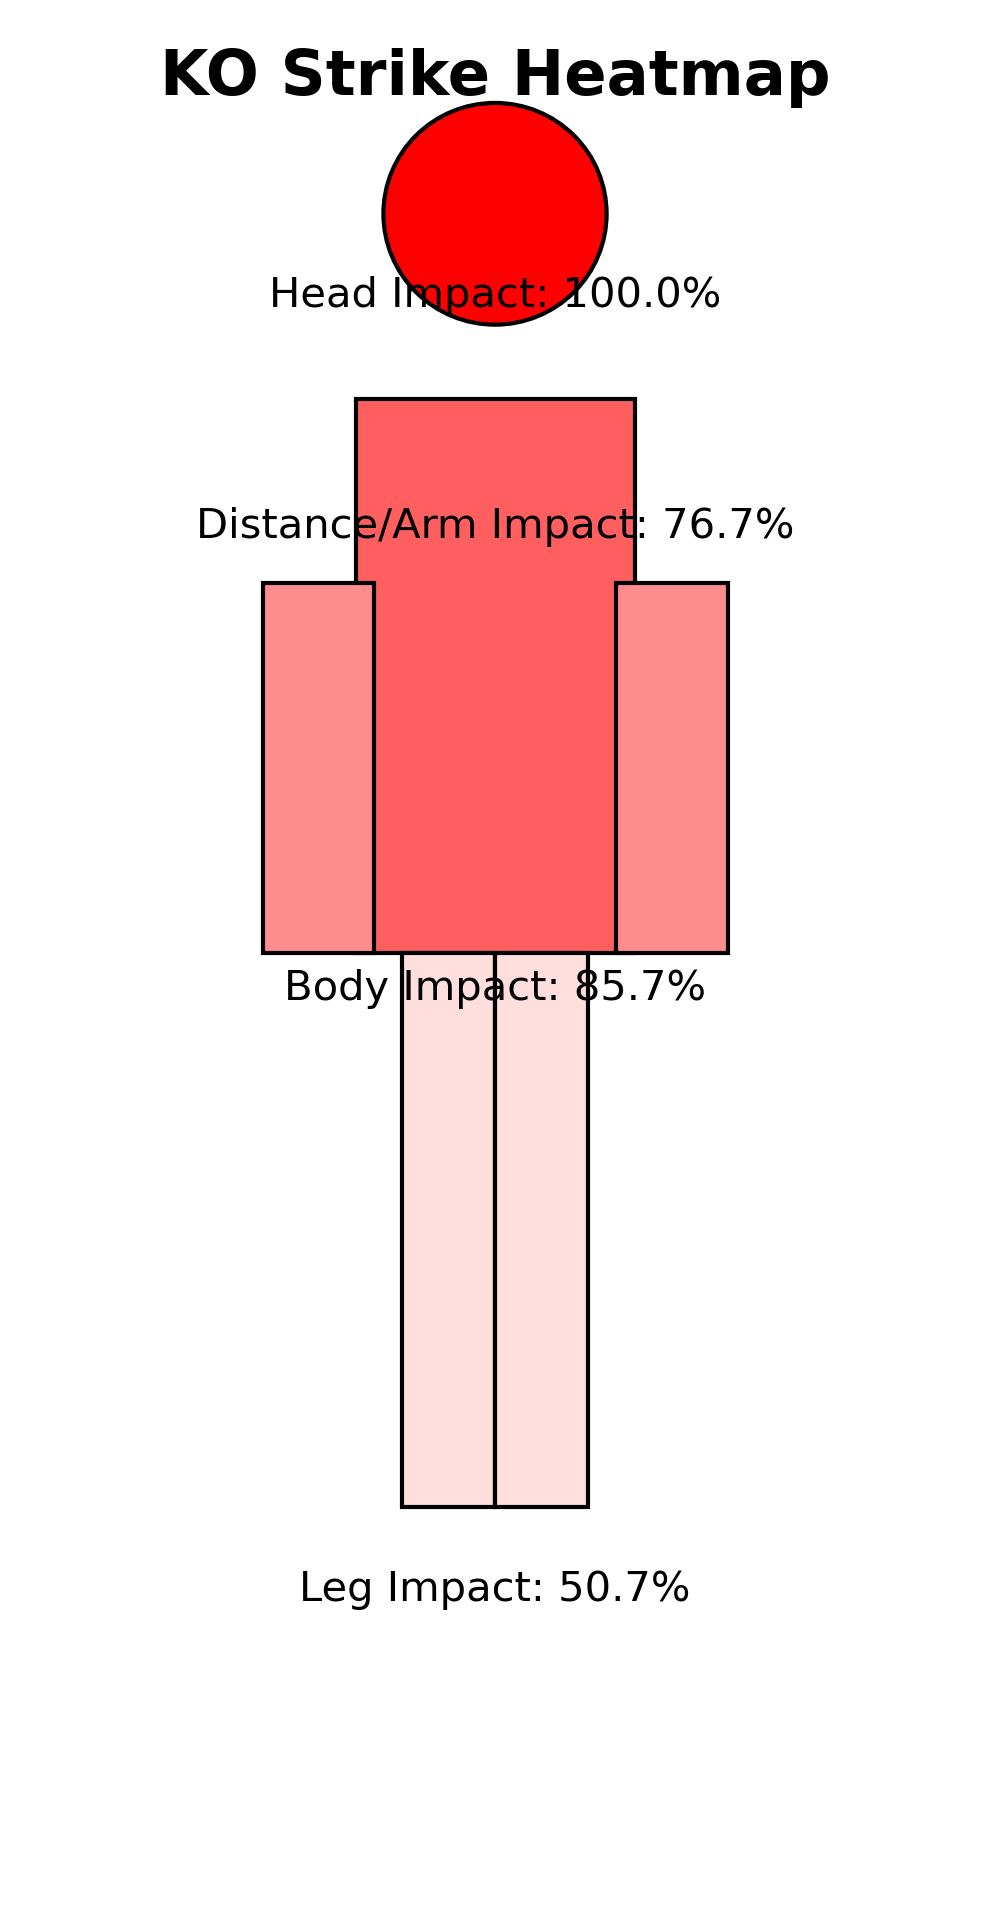
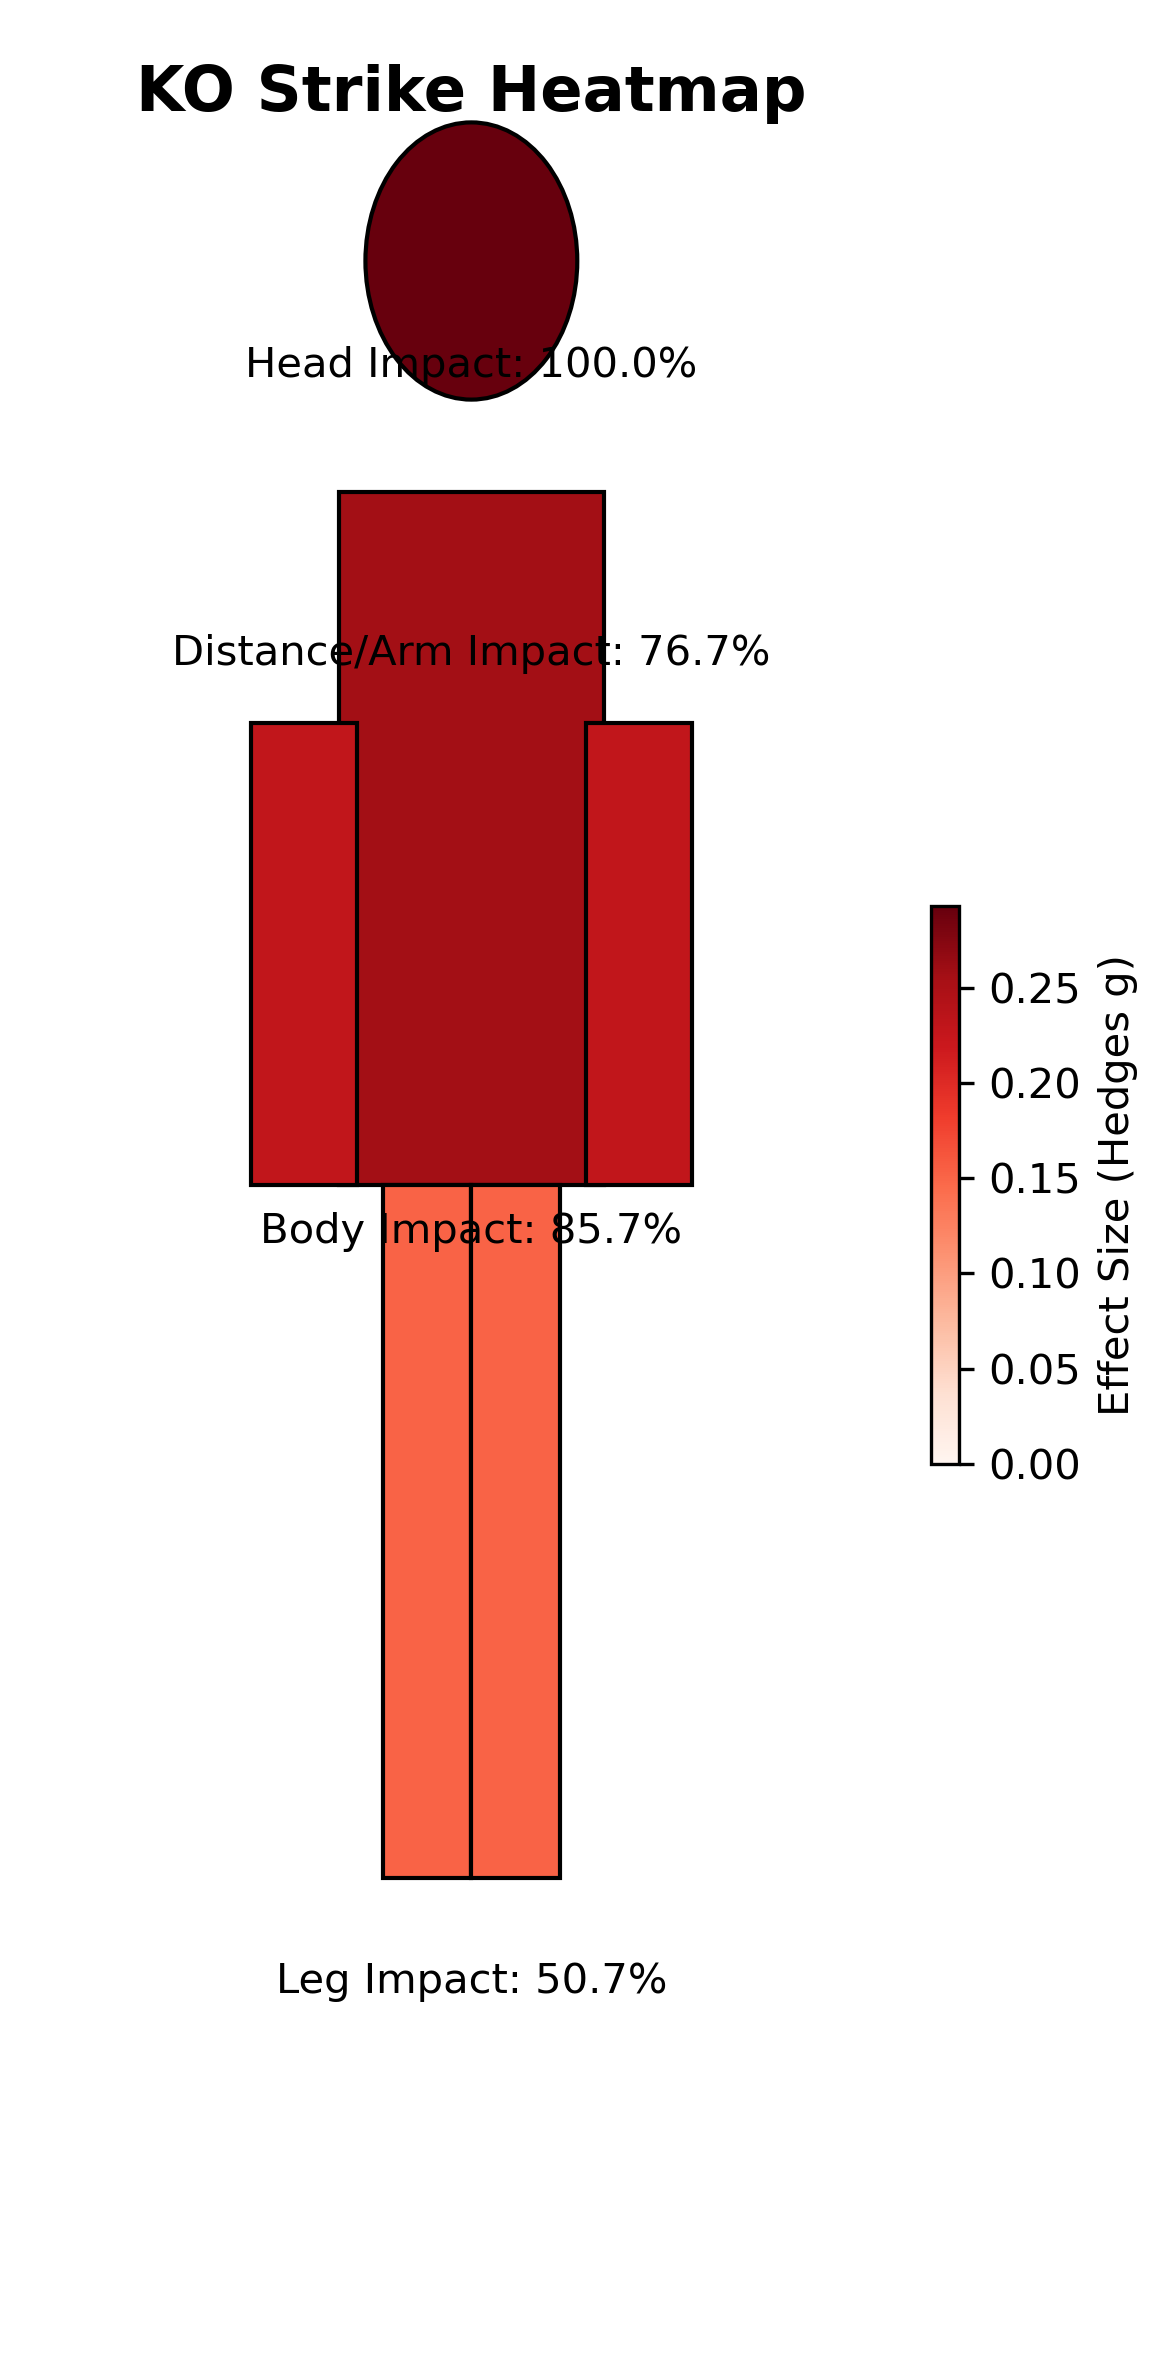
color change

diff --git a/body_heatmap.py b/body_heatmap.py
@@ -1,64 +1,48 @@
 import matplotlib.pyplot as plt
 import matplotlib.patches as patches
+from matplotlib.cm import get_cmap
+from matplotlib.colors import Normalize
 
-#result
-g_head = 0.30          # strongest
-g_distance = 0.23      # arms / upper body
-g_body = 0.257         # torso
-g_leg = 0.152          # legs
+#result 
+g_head = 0.30
+g_distance = 0.23
+g_body = 0.257
+g_leg = 0.152
 
-# normalize to 0.3
-def norm(x):
-    return min(max(x / 0.30, 0), 1)
+#mathplot bokeh linearcolormap like kde
+cmap = get_cmap("Reds")         
+norm = Normalize(vmin=0, vmax=0.293)
 
-n_head = norm(g_head)
-n_dist = norm(g_distance)
-n_body = norm(g_body)
-n_leg  = norm(g_leg)
-
-p_head = n_head * 100
-p_dist = n_dist * 100
-p_body = n_body * 100
-p_leg  = n_leg * 100
-
-#color grad
-def heat_color(intensity):
-    boosted = intensity ** 3.0  
-    return (1,
-            1 - boosted,
-            1 - boosted)
-
-head_color = heat_color(n_head)
-arm_color  = heat_color(n_dist)
-body_color = heat_color(n_body)
-leg_color  = heat_color(n_leg)
+def get_color(val):
+    return cmap(norm(val))
 
 fig, ax = plt.subplots(figsize=(4, 8))
 ax.set_xlim(0, 10)
 ax.set_ylim(0, 20)
 ax.axis("off")
 
-head = patches.Circle((5, 18), 1.2, edgecolor='black', facecolor=head_color)
-ax.add_patch(head)
+head  = patches.Circle((5, 18), 1.2, edgecolor="black", facecolor=get_color(g_head))
+torso = patches.Rectangle((3.5, 10), 3, 6, edgecolor="black", facecolor=get_color(g_body))
+larm  = patches.Rectangle((2.5, 10), 1.2, 4, edgecolor="black", facecolor=get_color(g_distance))
+rarm  = patches.Rectangle((6.3, 10), 1.2, 4, edgecolor="black", facecolor=get_color(g_distance))
+lleg  = patches.Rectangle((4, 4), 1, 6, edgecolor="black", facecolor=get_color(g_leg))
+rleg  = patches.Rectangle((5, 4), 1, 6, edgecolor="black", facecolor=get_color(g_leg))
 
-torso = patches.Rectangle((3.5, 10), 3, 6, edgecolor='black', facecolor=body_color)
-ax.add_patch(torso)
+for p in [head, torso, larm, rarm, lleg, rleg]:
+    ax.add_patch(p)
 
-left_arm = patches.Rectangle((2.5, 10), 1.2, 4, edgecolor='black', facecolor=arm_color)
-right_arm = patches.Rectangle((6.3, 10), 1.2, 4, edgecolor='black', facecolor=arm_color)
-ax.add_patch(left_arm)
-ax.add_patch(right_arm)
+plt.text(5, 19.3, "KO Strike Heatmap", ha="center", fontsize=15, weight="bold")
+plt.text(5, 17.0, f"Head Impact: {g_head:.3f}", ha="center", fontsize=10)
+plt.text(5, 14.5, f"Distance/Arm Impact: {g_distance:.3f}", ha="center", fontsize=10)
+plt.text(5, 9.5,  f"Body Impact: {g_body:.3f}", ha="center", fontsize=10)
+plt.text(5, 3.0,  f"Leg Impact: {g_leg:.3f}", ha="center", fontsize=10)
 
-left_leg = patches.Rectangle((4, 4), 1, 6, edgecolor='black', facecolor=leg_color)
-right_leg = patches.Rectangle((5, 4), 1, 6, edgecolor='black', facecolor=leg_color)
-ax.add_patch(left_leg)
-ax.add_patch(right_leg)
+#colorbar
+sm = plt.cm.ScalarMappable(norm=norm, cmap=cmap)
+sm.set_array([])
+cbar = plt.colorbar(sm, ax=ax, fraction=0.03, pad=0.02)
+cbar.set_label("Effect Size (Hedges g)", fontsize=10)
 
-plt.text(5, 19.3, "KO Strike Heatmap", ha='center', fontsize=15, weight='bold')
-plt.text(5, 17,   f"Head Impact: {p_head:.1f}%", ha='center', fontsize=10)
-plt.text(5, 14.5, f"Distance/Arm Impact: {p_dist:.1f}%", ha='center', fontsize=10)
-plt.text(5, 9.5,  f"Body Impact: {p_body:.1f}%", ha='center', fontsize=10)
-plt.text(5, 3,    f"Leg Impact: {p_leg:.1f}%", ha='center', fontsize=10)
-
-plt.savefig("ko_heatmap_perct.png", dpi=300, bbox_inches='tight')
+plt.tight_layout()
+plt.savefig("ko_heatmap_hedges.png", dpi=300, bbox_inches='tight')
 plt.show()
